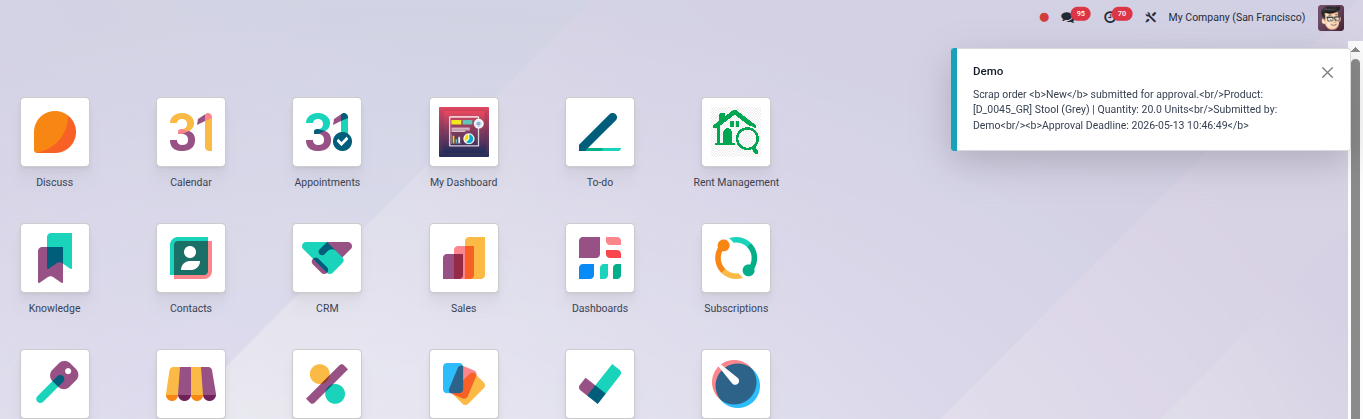
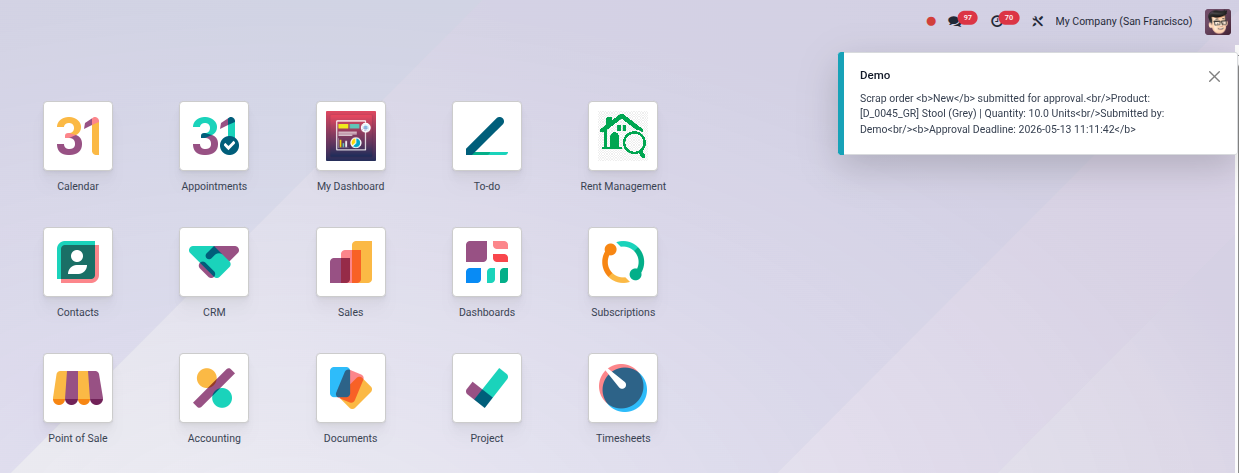
Scrap orders

Changed region(s): [[0.0, 0.2172, 0.5827, 1.0], [0.6747, 0.0, 1.0, 1.0], [0.092, 0.9928, 0.184, 1.0]]

diff --git a/scrap_approval/static/description/index.html b/scrap_approval/static/description/index.html
@@ -143,15 +143,14 @@
         Users can cancel scrap orders directly from <strong>Draft</strong> or <strong>Waiting Approval</strong> status without going through the approval process.
         Every submitted scrap order automatically gets a 48-hour approval deadline. A scheduled job notifies the Operations Manager when orders are overdue.
     <img src="reg1.png" alt="Scrap Order Draft" class="screenshot"/>
-    <img src="reg2.png" alt="Scrap Order Draft" class="screenshot"/>
+    <img src="reason.png" alt="Scrap Order Draft" class="screenshot"/>
     <p class="screenshot-caption">
         .
     </p>
 
      
     <p class="screenshot-caption">
-        Waiting Approval state — Operations Manager sees Approve and Cancel buttons with full order details and chatter history.
-        Scrap orders list showing approval status for each order with instant manager 
+        Scrap orders list showing approval status (Waiting Approval state - Canceled - Rejected - Done) for each order with instant manager 
     </p>
         <img src="screenshot_list1.png" alt="Scrap Orders List" class="screenshot"/>
     <p class="screenshot-caption">